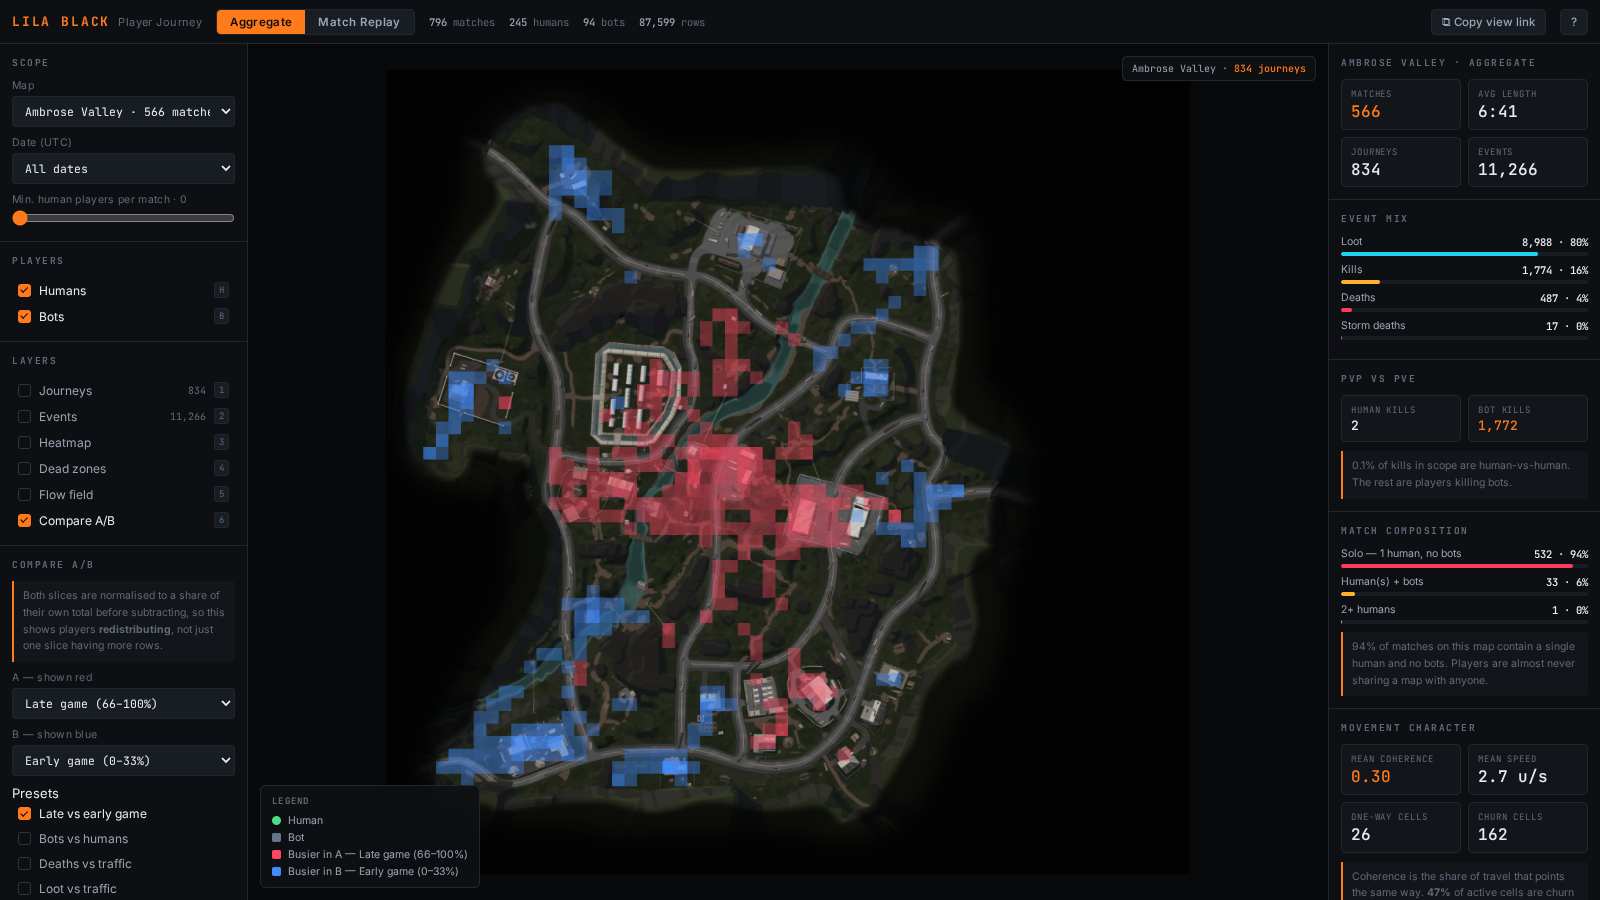
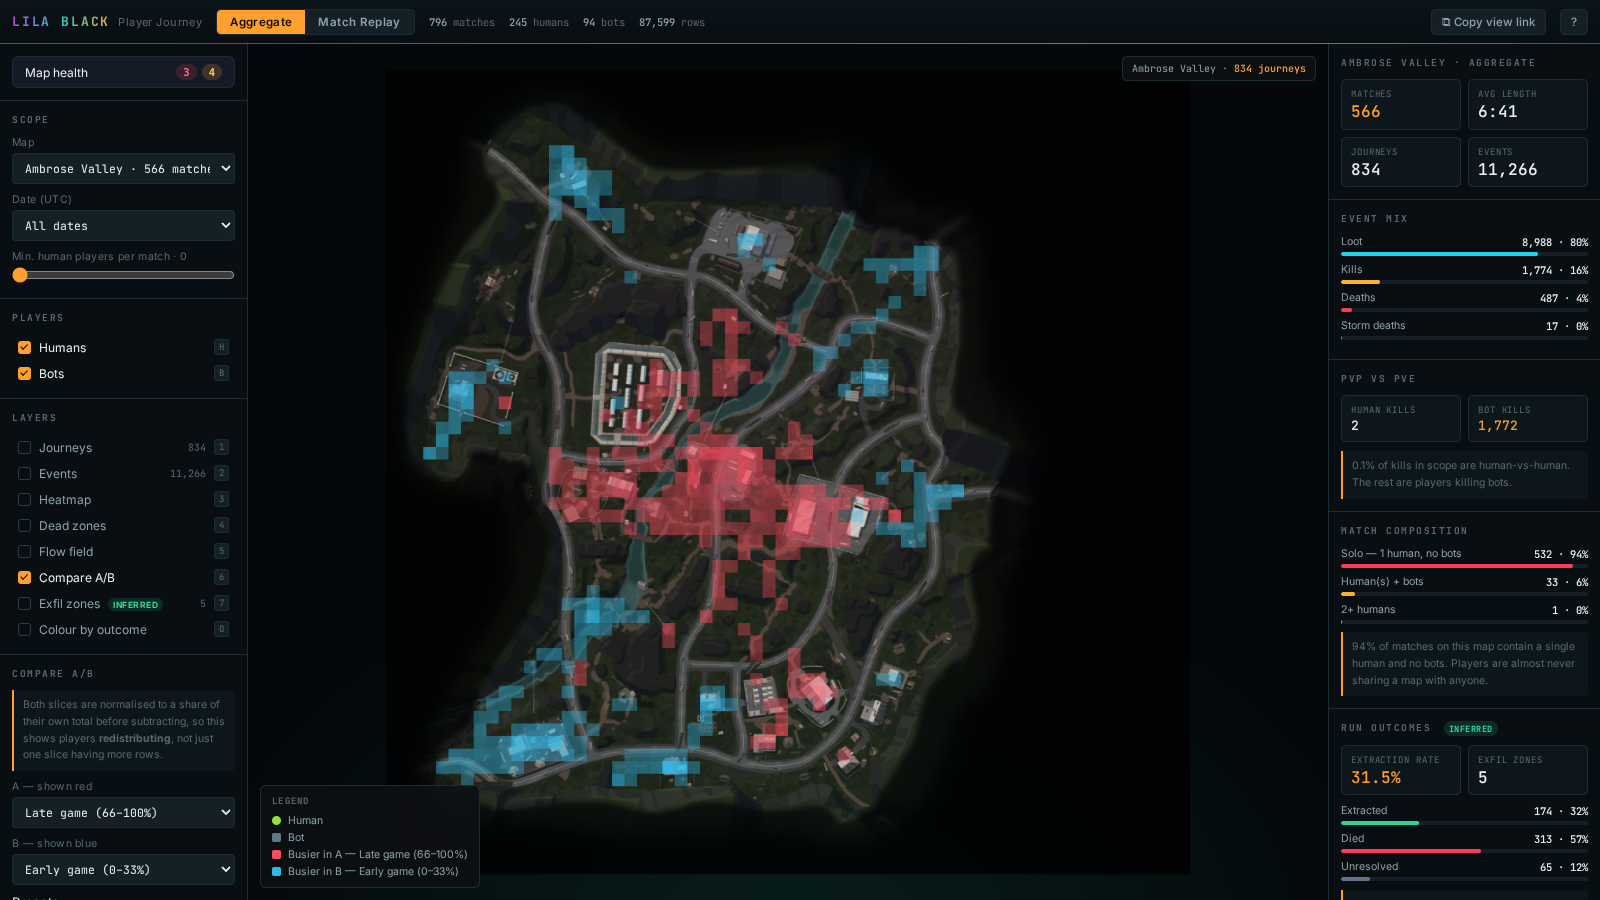
style: palette sampled from the LILA BLACK key art
The brief ships two pieces of key art. The palette is taken from them
rather than invented: teal atmosphere, magenta vortex, lime foliage,
amber jacket, crimson eye.

The mapping is semantic, not just decorative - the storm marker is the
vortex magenta because the storm IS that thing in the artwork, and the
death marker is the tower's eye.

Two rules it was not allowed to break: semantic distinctness comes
first (hue separation checked before adoption, branding never overrode
legibility), and brand colours never encode data - they are confined to
the wordmark, a 1px header hairline and a faint background glow.

The legend now derives from the same constants the deck.gl layers
render with, so it cannot drift out of sync with the map.

All doc screenshots regenerated.

diff --git a/web/src/components/MapView.tsx b/web/src/components/MapView.tsx
@@ -10,6 +10,7 @@ import { useFiltered } from '../lib/useFiltered';
 import {
   SIZE, toPx, EVENT_COLORS, EVENT_LABEL, HUMAN_COLOR, BOT_COLOR, HEAT_RANGE, fmtTime, shortId,
   buildArrows, diffGrids, diffColor, METRIC_LABEL, OUTCOME_COLOR, EXFIL_COLOR, fmtP,
+  coherenceColor, rgbCss,
 } from '../lib/viz';
 import type { GameEvent, Journey } from '../types';
 
@@ -660,43 +661,48 @@ function Tooltip({ h }: { h: Hover }) {
 function Legend() {
   const f = useStore((s) => s.filters);
   const mode = useStore((s) => s.mode);
+  // Every swatch reads from the same constants the layers render with, so the
+  // legend physically cannot drift out of sync with the map.
+  const Sw = ({ c, sq, ring }: { c: [number, number, number]; sq?: boolean; ring?: boolean }) => (
+    <span
+      className={`swatch${sq ? ' sq' : ''}`}
+      style={ring ? { background: 'transparent', boxShadow: `inset 0 0 0 2px ${rgbCss(c)}` } : { background: rgbCss(c) }}
+    />
+  );
   return (
     <div className="legend" style={{ bottom: mode === 'replay' ? 92 : 12 }}>
       <h4>Legend</h4>
-      <div className="li"><span className="swatch" style={{ background: 'rgb(74,222,128)' }} /> Human</div>
-      <div className="li"><span className="swatch sq" style={{ background: 'rgb(100,116,139)' }} /> Bot</div>
-      {f.showEvents && (
-        <>
-          <div className="li"><span className="swatch" style={{ background: 'rgb(255,176,46)' }} /> Kill</div>
-          <div className="li"><span className="swatch" style={{ background: 'rgb(255,59,92)' }} /> Death</div>
-          <div className="li"><span className="swatch" style={{ background: 'rgb(34,211,238)' }} /> Loot</div>
-          <div className="li"><span className="swatch" style={{ background: 'rgb(168,85,247)' }} /> Storm death</div>
-        </>
-      )}
-      {f.showExfil && (
-        <div className="li"><span className="swatch" style={{ background: 'transparent', boxShadow: 'inset 0 0 0 2px rgb(52,211,153)' }} /> Inferred exfil</div>
-      )}
+      <div className="li"><Sw c={HUMAN_COLOR} /> Human</div>
+      <div className="li"><Sw c={BOT_COLOR} sq /> Bot</div>
+      {f.showEvents && (['kill', 'death', 'loot', 'storm'] as const).map((k) => (
+        <div className="li" key={k}><Sw c={EVENT_COLORS[k]} /> {EVENT_LABEL[k]}</div>
+      ))}
+      {f.showExfil && <div className="li"><Sw c={EXFIL_COLOR} ring /> Inferred exfil</div>}
       {f.colorByOutcome && (
         <>
-          <div className="li"><span className="swatch" style={{ background: 'rgb(52,211,153)' }} /> Extracted (inferred)</div>
-          <div className="li"><span className="swatch" style={{ background: 'rgb(255,59,92)' }} /> Died</div>
-          <div className="li"><span className="swatch" style={{ background: 'rgb(148,163,184)' }} /> Unresolved</div>
+          <div className="li"><Sw c={OUTCOME_COLOR.x} /> Extracted (inferred)</div>
+          <div className="li"><Sw c={OUTCOME_COLOR.d} /> Died</div>
+          <div className="li"><Sw c={OUTCOME_COLOR['?']} /> Unresolved</div>
         </>
       )}
       {f.showFlow && (
         <>
-          <div className="li"><span className="swatch sq" style={{ background: 'rgb(255,176,46)' }} /> One-way route</div>
-          <div className="li"><span className="swatch sq" style={{ background: 'rgb(34,211,238)' }} /> Mixed flow</div>
-          <div className="li"><span className="swatch sq" style={{ background: 'rgb(72,100,140)' }} /> Milling / churn</div>
+          <div className="li"><Sw c={coherenceColor(0.85)} sq /> One-way route</div>
+          <div className="li"><Sw c={coherenceColor(0.45)} sq /> Mixed flow</div>
+          <div className="li"><Sw c={coherenceColor(0.05)} sq /> Milling / churn</div>
         </>
       )}
       {f.showDiff && (
         <>
-          <div className="li"><span className="swatch sq" style={{ background: 'rgb(255,70,96)' }} /> Busier in A — {METRIC_LABEL[f.cmpA]}</div>
-          <div className="li"><span className="swatch sq" style={{ background: 'rgb(64,140,255)' }} /> Busier in B — {METRIC_LABEL[f.cmpB]}</div>
+          <div className="li"><Sw c={[255, 74, 94]} sq /> Busier in A — {METRIC_LABEL[f.cmpA]}</div>
+          <div className="li"><Sw c={[48, 184, 232]} sq /> Busier in B — {METRIC_LABEL[f.cmpB]}</div>
         </>
       )}
-      {f.showDead && <div className="li"><span className="swatch sq" style={{ background: 'rgba(255,59,92,.35)', border: '1px solid rgba(255,59,92,.6)' }} /> Dead zone</div>}
+      {f.showDead && (
+        <div className="li">
+          <span className="swatch sq" style={{ background: 'rgba(240,56,74,.35)', border: '1px solid rgba(240,56,74,.6)' }} /> Dead zone
+        </div>
+      )}
     </div>
   );
 }

diff --git a/web/src/theme.css b/web/src/theme.css
@@ -1,25 +1,45 @@
 @import url('https://fonts.googleapis.com/css2?family=Inter:wght@400;500;600;700&family=JetBrains+Mono:wght@400;500;700&display=swap');
 
 :root {
-  --bg: #08090b;
-  --bg-1: #0d0f13;
-  --bg-2: #12151a;
-  --bg-3: #181c23;
-  --line: #22272f;
-  --line-2: #2d343e;
-  --text: #e8ecf1;
-  --text-2: #9aa4b2;
-  --text-3: #5f6977;
+  /* ------------------------------------------------------------------
+     Palette sampled directly from the LILA BLACK key art in the brief.
+     The game's signature is a teal atmosphere pierced by a magenta
+     vortex, with lime foliage, an amber jacket and a crimson eye.
 
-  --accent: #ff7a1a;
-  --accent-dim: #ff7a1a22;
+     Mapping those onto the data was mostly free, because the semantics
+     already lined up:
+        storm  -> the vortex magenta   (the storm IS that vortex)
+        loot   -> atmosphere teal
+        kill   -> jacket amber
+        death  -> the eye's crimson
+        human  -> foliage lime (the living thing in the frame)
+     The background is a near-black with a deliberate teal cast rather
+     than neutral grey - "LILA BLACK" is not a grey game.
+     ------------------------------------------------------------------ */
+  --bg: #04080a;
+  --bg-1: #080e12;
+  --bg-2: #0d161b;
+  --bg-3: #142026;
+  --line: #1b2c33;
+  --line-2: #263d46;
+  --text: #e6f0f2;
+  --text-2: #8ba3ab;
+  --text-3: #56696f;
+
+  /* identity only - never used to encode data */
+  --brand: #c24ae0;
+  --brand-2: #2dd4bf;
+
+  --accent: #ff9f2e;
+  --accent-dim: #ff9f2e22;
 
   --kill: #ffb02e;
-  --death: #ff3b5c;
+  --death: #f0384a;
   --loot: #22d3ee;
-  --storm: #a855f7;
-  --human: #4ade80;
-  --bot: #64748b;
+  --storm: #c24ae0;
+  --human: #8ee03c;
+  --bot: #5a7a85;
+  --exfil: #34e8a0;
 
   --mono: 'JetBrains Mono', ui-monospace, SFMono-Regular, Menlo, monospace;
   --sans: 'Inter', -apple-system, BlinkMacSystemFont, 'Segoe UI', sans-serif;
@@ -56,13 +76,26 @@ body {
 
 /* ---------------------------------------------------------------- header */
 .header {
+  position: relative;
   display: flex;
   align-items: center;
   gap: 14px;
   padding: 0 12px;
-  background: var(--bg-1);
+  background: linear-gradient(180deg, #0a1419 0%, var(--bg-1) 100%);
   border-bottom: 1px solid var(--line);
   user-select: none;
+}
+/* A hairline of the key art's palette across the top of the app. One pixel,
+   but it is what stops the chrome reading as a generic dark dashboard. */
+.header::after {
+  content: '';
+  position: absolute;
+  left: 0; right: 0; bottom: -1px;
+  height: 1px;
+  background: linear-gradient(90deg,
+    var(--brand) 0%, #7b5ce0 18%, var(--brand-2) 42%,
+    #8ee03c 66%, var(--accent) 86%, var(--death) 100%);
+  opacity: 0.55;
 }
 
 .brand { display: flex; align-items: baseline; gap: 8px; }
@@ -71,7 +104,12 @@ body {
   font-weight: 700;
   font-size: 13px;
   letter-spacing: 0.14em;
-  color: var(--accent);
+  /* the key art's two signature colours, in the order they appear in it */
+  background: linear-gradient(95deg, var(--brand) 0%, var(--brand-2) 55%, var(--accent) 100%);
+  -webkit-background-clip: text;
+  background-clip: text;
+  color: transparent;
+  -webkit-text-fill-color: transparent;
 }
 .brand .sub {
   font-size: 11px;
@@ -213,6 +251,21 @@ select:focus, input:focus { border-color: var(--accent); }
 
 /* ---------------------------------------------------------------- map */
 .stage { position: relative; min-width: 0; background: var(--bg); overflow: hidden; }
+/* Decorative only: a very faint echo of the key art's magenta vortex and
+   teal haze, so the dark field reads as the game's black rather than a
+   generic dashboard grey. Sits behind the canvas and never over data. */
+.stage::before {
+  content: '';
+  position: absolute;
+  inset: 0;
+  pointer-events: none;
+  background:
+    radial-gradient(ellipse 54% 44% at 50% 40%, rgba(194, 74, 224, 0.13), transparent 68%),
+    radial-gradient(ellipse 78% 64% at 50% 104%, rgba(45, 212, 191, 0.10), transparent 70%),
+    radial-gradient(ellipse 40% 34% at 50% 50%, rgba(142, 224, 60, 0.045), transparent 70%);
+  z-index: 0;
+}
+.stage > * { position: relative; z-index: 1; }
 .stage canvas { outline: none !important; }
 
 .legend {

diff --git a/web/src/lib/viz.ts b/web/src/lib/viz.ts
@@ -18,12 +18,17 @@ export const SIZE = 1024;
 
 export const toPx = (u: number, v: number): [number, number] => [u * SIZE, (1 - v) * SIZE];
 
+/**
+ * Event palette, sampled from the LILA BLACK key art in the brief.
+ * The mapping is semantic as well as decorative: the storm really is the
+ * magenta vortex from the artwork, and the death red is the glowing eye.
+ */
 export const EVENT_COLORS: Record<EventKind, [number, number, number]> = {
-  kill: [255, 176, 46],
-  death: [255, 59, 92],
-  loot: [34, 211, 238],
-  storm: [168, 85, 247],
-  other: [148, 163, 184],
+  kill: [255, 176, 46],   // the jacket
+  death: [240, 56, 74],   // the eye
+  loot: [34, 211, 238],   // atmosphere teal
+  storm: [194, 74, 224],  // the vortex
+  other: [139, 163, 171],
 };
 
 export const EVENT_LABEL: Record<EventKind, string> = {
@@ -34,17 +39,20 @@ export const EVENT_LABEL: Record<EventKind, string> = {
   other: 'Other',
 };
 
-export const HUMAN_COLOR: [number, number, number] = [74, 222, 128];
-export const BOT_COLOR: [number, number, number] = [100, 116, 139];
+export const HUMAN_COLOR: [number, number, number] = [142, 224, 60];  // foliage lime
+export const BOT_COLOR: [number, number, number] = [90, 122, 133];    // desaturated teal-slate
 
 /** Heatmap gradient: transparent -> deep blue -> cyan -> amber -> white-hot */
+/** Heatmap gradient: deep teal -> cyan -> lime -> amber -> white-hot.
+ *  Runs through the key art's own hues while keeping luminance monotonic,
+ *  so it still reads correctly as low-to-high at a glance. */
 export const HEAT_RANGE: [number, number, number, number][] = [
-  [30, 64, 140, 55],
-  [21, 101, 192, 120],
-  [34, 211, 238, 170],
-  [255, 176, 46, 205],
-  [255, 122, 26, 232],
-  [255, 245, 235, 255],
+  [16, 58, 68, 58],
+  [22, 112, 128, 125],
+  [34, 200, 216, 170],
+  [142, 224, 60, 200],
+  [255, 160, 46, 230],
+  [255, 246, 232, 255],
 ];
 
 export function fmtTime(sec: number): string {
@@ -75,10 +83,10 @@ export function shortId(id: string, n = 8): string {
 export function coherenceColor(c: number): [number, number, number] {
   const t = Math.max(0, Math.min(1, c));
   const stops: [number, [number, number, number]][] = [
-    [0.0, [72, 100, 140]],
+    [0.0, [58, 96, 108]],
     [0.35, [34, 211, 238]],
     [0.7, [255, 176, 46]],
-    [1.0, [255, 240, 220]],
+    [1.0, [255, 242, 224]],
   ];
   for (let i = 0; i < stops.length - 1; i++) {
     const [a, ca] = stops[i];
@@ -185,7 +193,7 @@ export function diffColor(d: number): [number, number, number, number] {
   // sqrt, not linear: the diff distribution is long-tailed, so a linear ramp
   // leaves everything but a couple of cells invisible.
   const a = Math.round(40 + 195 * Math.sqrt(Math.abs(t)));
-  return t >= 0 ? [255, 70, 96, a] : [64, 140, 255, a];
+  return t >= 0 ? [255, 74, 94, a] : [48, 184, 232, a];
 }
 
 /**
@@ -221,10 +229,10 @@ export const METRIC_LABEL: Record<string, string> = {
 // ---------------------------------------------------------------------------
 
 export const OUTCOME_COLOR: Record<string, [number, number, number]> = {
-  x: [52, 211, 153],   // extracted - emerald
-  d: [255, 59, 92],    // died      - red
-  '?': [148, 163, 184], // unresolved
-  b: [100, 116, 139],  // bot
+  x: [52, 232, 160],    // extracted - mint
+  d: [240, 56, 74],     // died      - the eye
+  '?': [139, 163, 171], // unresolved
+  b: [90, 122, 133],    // bot
 };
 
 export const OUTCOME_LABEL: Record<string, string> = {
@@ -234,7 +242,7 @@ export const OUTCOME_LABEL: Record<string, string> = {
   b: 'Bot',
 };
 
-export const EXFIL_COLOR: [number, number, number] = [52, 211, 153];
+export const EXFIL_COLOR: [number, number, number] = [52, 232, 160];
 
 /** Format a Poisson tail probability for display without pretending to more precision than we have. */
 export function fmtP(p: number): string {
@@ -244,7 +252,10 @@ export function fmtP(p: number): string {
 }
 
 export const STATUS_COLOR: Record<string, string> = {
-  ok: '#34d399',
+  ok: '#34e8a0',
   warn: '#ffb02e',
-  critical: '#ff3b5c',
+  critical: '#f0384a',
 };
+
+/** CSS rgb() string from one of the palette triples above. */
+export const rgbCss = (c: [number, number, number]) => `rgb(${c[0]},${c[1]},${c[2]})`;

diff --git a/web/src/components/LeftPanel.tsx b/web/src/components/LeftPanel.tsx
@@ -1,7 +1,7 @@
 import { useStore } from '../store';
 import type { HeatMetric } from '../store';
 import { useFiltered } from '../lib/useFiltered';
-import { fmtTime, fmtNum, shortId, METRIC_LABEL } from '../lib/viz';
+import { fmtTime, fmtNum, shortId, METRIC_LABEL, EVENT_COLORS, rgbCss } from '../lib/viz';
 
 function Metric({ label, value, accent }: { label: string; value: string; accent?: boolean }) {
   return (
@@ -288,9 +288,7 @@ export default function LeftPanel() {
             <div className="box" />
             <span
               className="swatch"
-              style={{
-                background: { kill: '#ffb02e', death: '#ff3b5c', loot: '#22d3ee', storm: '#a855f7' }[k],
-              }}
+              style={{ background: rgbCss(EVENT_COLORS[k]) }}
             />
             <span className="nm" style={{ textTransform: 'capitalize' }}>
               {k === 'storm' ? 'Storm death' : k}

diff --git a/ARCHITECTURE.md b/ARCHITECTURE.md
@@ -165,6 +165,32 @@ Two deliberate design decisions:
 
 ---
 
+## 3e. Visual design
+
+The palette is not invented. It is sampled from the two pieces of LILA BLACK key art embedded in the assignment brief itself — a teal atmosphere pierced by a magenta vortex, with lime foliage, an amber jacket and a crimson eye.
+
+That mapping turned out to be mostly free, because the semantics already lined up:
+
+| Data | Colour | Where it comes from |
+|---|---|---|
+| Storm death | magenta `#c24ae0` | the vortex — the storm *is* that thing in the artwork |
+| Loot | teal `#22d3ee` | the atmospheric haze in both images |
+| Kill | amber `#ffb02e` | the character's jacket |
+| Death | crimson `#f0384a` | the glowing eye of the tower |
+| Human | lime `#8ee03c` | the foliage — the living thing in the frame |
+| Bot | desaturated teal-slate `#5a7a85` | the background buildings |
+
+The background is a near-black with a deliberate teal cast rather than neutral grey, because "LILA BLACK" is not a grey game. The heatmap gradient runs deep teal → cyan → lime → amber → white-hot, which stays inside the game's hues while keeping luminance monotonic so it still reads correctly as low-to-high.
+
+Two constraints this was *not* allowed to break:
+
+- **Semantic distinctness comes first.** The four event types, human/bot, and the diff's two poles all have to stay separable at a glance. Hue separation was checked before anything was adopted; branding never overrode legibility.
+- **Brand colours never encode data.** `--brand` and `--brand-2` are used for the wordmark, the header hairline and a faint background glow only. Nothing a designer has to *read* is coloured by them.
+
+The legend is generated from the same constants the deck.gl layers render with (`lib/viz.ts`), so it is structurally incapable of drifting out of sync with the map.
+
+---
+
 ## 4. Assumptions, and the data problems behind them
 
 ### 4.1 The timestamp is wall-clock, not match-relative — and the unit is wrong

diff --git a/README.md b/README.md
@@ -43,6 +43,12 @@ A browser tool that turns 5 days of raw LILA BLACK telemetry into something a **
 
 ---
 
+## Visual design
+
+The palette is sampled from the LILA BLACK key art in the assignment brief — teal atmosphere, magenta vortex, lime foliage, amber jacket, crimson eye. The mapping is semantic as well as decorative: the **storm marker is the vortex magenta**, the **death marker is the tower's eye**. Brand colours are confined to the wordmark, header and background glow; they never encode data. Details in `ARCHITECTURE.md` §3e.
+
+---
+
 ## Tech stack
 
 **Pipeline:** Python 3 · PyArrow · pandas · NumPy · Pillow
